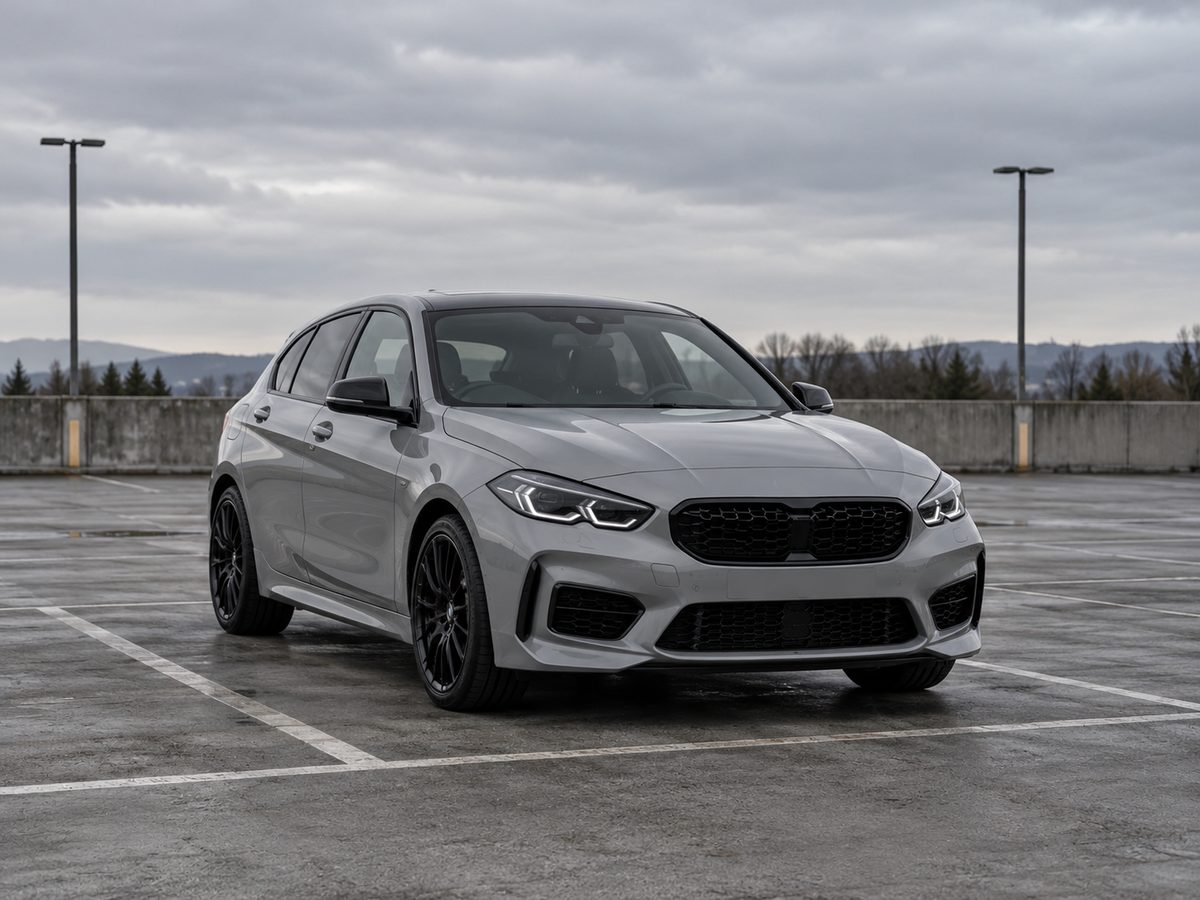
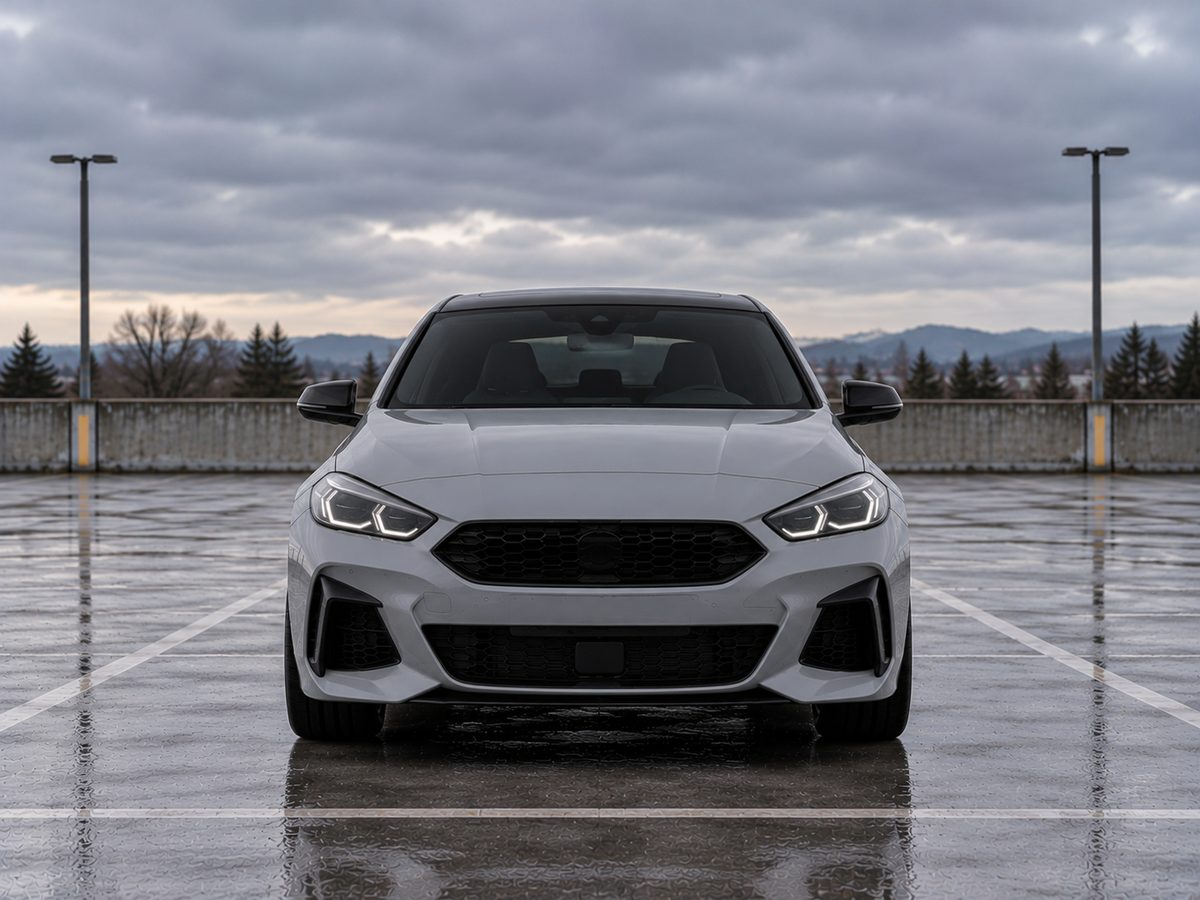
Accueil : miniature 3D tournable, angles du guide qui défilent seuls
- Nouvelle photo « Face avant », bien de face
- Miniature de l'accueil : on peut la faire tourner une fois la photo effacée (sans zoom, pour garder le défilement ; glisser vertical = défilement sur mobile)
- Guide photo : les 8 angles défilent toutes les 3 s tant que le client n'a rien touché, dès que la carte est à l'écran

diff --git a/components/Uploader.tsx b/components/Uploader.tsx
@@ -24,6 +24,7 @@ type Phase = "idle" | "sending" | "done" | "error";
 const DETAILS_STEP = ANGLES.length;
 const CONTACT_STEP = ANGLES.length + 1;
 const MAX_DETAILS = 4;
+const TOUR_MS = 3000;
 
 export default function Uploader() {
   const [step, setStep] = useState(0);
@@ -37,6 +38,10 @@ export default function Uploader() {
   const [storage, setStorage] = useState<boolean | null>(null);
   const [justAdded, setJustAdded] = useState(false);
   const advance = useRef<ReturnType<typeof setTimeout>>(undefined);
+  // Visite guidée : tant que le client n'a rien touché, les angles défilent seuls (au premier clic, ça s'arrête).
+  const [tour, setTour] = useState(true);
+  const [visible, setVisible] = useState(false);
+  const card = useRef<HTMLDivElement>(null);
 
   useEffect(() => {
     fetch("/api/storage")
@@ -45,6 +50,20 @@ export default function Uploader() {
       .catch(() => setStorage(false));
     return () => clearTimeout(advance.current);
   }, []);
+
+  useEffect(() => {
+    const el = card.current;
+    if (!el) return;
+    const io = new IntersectionObserver(([e]) => setVisible(e.isIntersecting), { rootMargin: "-15% 0px" });
+    io.observe(el);
+    return () => io.disconnect();
+  }, []);
+
+  useEffect(() => {
+    if (!tour || !visible) return;
+    const t = setInterval(() => setStep((s) => (s + 1) % ANGLES.length), TOUR_MS);
+    return () => clearInterval(t);
+  }, [tour, visible]);
 
   const previews = useMemo(() => {
     const m: Partial<Record<AngleId, string>> = {};
@@ -147,7 +166,12 @@ export default function Uploader() {
   const angle = step < ANGLES.length ? ANGLES[step] : null;
 
   return (
-    <div className="up-card wizard">
+    <div
+      className="up-card wizard"
+      ref={card}
+      onPointerDown={() => setTour(false)}
+      onKeyDown={() => setTour(false)}
+    >
       <div className="wz-head">
         <span>
           {angle ? `Photo ${step + 1} sur ${ANGLES.length}` : step === DETAILS_STEP ? "Détails" : "Dernière étape"}

diff --git a/components/CarViewer.tsx b/components/CarViewer.tsx
@@ -71,6 +71,7 @@ export default function CarViewer({
   onPartStatus,
   framing = 1,
   interactive = true,
+  zoom = true,
 }: {
   source: ModelSource;
   config: Config;
@@ -84,6 +85,8 @@ export default function CarViewer({
   framing?: number;
   /** false : la voiture tourne seule, sans capter la souris (la page défile normalement). */
   interactive?: boolean;
+  /** false : pas de zoom à la molette ou au pincement, pour laisser la page défiler. */
+  zoom?: boolean;
 }) {
   const host = useRef<HTMLDivElement>(null);
   const rig = useRef<Rig | null>(null);
@@ -123,6 +126,7 @@ export default function CarViewer({
     controls.enableDamping = true;
     controls.enablePan = false;
     controls.enabled = interactive;
+    controls.enableZoom = zoom;
     controls.minDistance = 4;
     controls.maxDistance = 16 * framing;
     controls.minPolarAngle = 0.25;
@@ -292,7 +296,7 @@ export default function CarViewer({
           {failed ? `Le modèle 3D n'a pas pu se charger (${failed}).` : `Chargement du modèle 3D… ${Math.round(progress * 100)} %`}
         </div>
       )}
-      {ready && interactive && !touched && !pick && <p className="viewer-hint">Fais glisser pour tourner · pince ou molette pour zoomer</p>}
+      {ready && interactive && !touched && !pick && <p className="viewer-hint">{zoom ? "Fais glisser pour tourner · pince ou molette pour zoomer" : "Fais-la tourner"}</p>}
     </div>
   );
 }

diff --git a/components/ShelfPreview.tsx b/components/ShelfPreview.tsx
@@ -5,7 +5,7 @@ import CarViewer, { type ModelSource } from "./CarViewer";
 import { ORIGINE, type Config } from "@/lib/options";
 import type { Car } from "@/lib/cars";
 
-/** Miniature d'exemple sur l'accueil : la voiture du catalogue, sur son socle gravé, qui tourne seule. */
+/** Miniature d'exemple sur l'accueil : la voiture du catalogue, sur son socle gravé. Elle tourne seule, et se fait tourner à la souris ou au doigt (sans zoom, pour ne pas bloquer le défilement). */
 export default function ShelfPreview({ car }: { car: Car }) {
   const source = useMemo<ModelSource>(
     () => ({ url: car.glb!, lengthM: car.lengthM, roles: car.roles }),
@@ -27,5 +27,5 @@ export default function ShelfPreview({ car }: { car: Car }) {
     }),
     [car]
   );
-  return <CarViewer source={source} config={config} framing={1.4} interactive={false} />;
+  return <CarViewer source={source} config={config} framing={1.4} zoom={false} />;
 }

diff --git a/app/globals.css b/app/globals.css
@@ -72,6 +72,10 @@ h1 span { color: var(--muted); font-weight: 400; }
 .reveal-mini, .reveal-photo { position: absolute; inset: 12px clamp(12px, 2vw, 20px) 20px; border-radius: 24px; overflow: hidden; }
 .reveal-mini { background: var(--wall); }
 .reveal-mini .viewer { position: absolute; inset: 0 0 24% 0; min-height: 0; pointer-events: none; transform: scale(calc(0.9 + var(--p) * 0.1)); }
+.reveal.live .reveal-mini .viewer { pointer-events: auto; }
+/* Sur mobile, glisser à l'horizontale fait tourner la voiture, à la verticale fait défiler la page. */
+.reveal-mini .viewer canvas { touch-action: pan-y !important; }
+.reveal-mini .viewer-hint { bottom: 4px; }
 .reveal-photo {
   opacity: clamp(0, calc(1.6 - var(--p) * 2.4), 1);
   pointer-events: none;

diff --git a/components/HeroReveal.tsx b/components/HeroReveal.tsx
@@ -22,6 +22,8 @@ export default function HeroReveal({ car, from }: { car: Car; from: number }) {
       const span = r.height - window.innerHeight;
       const p = span > 0 ? Math.min(1, Math.max(0, -r.top / span)) : 0;
       el.style.setProperty("--p", p.toFixed(3));
+      // La miniature ne capte la souris qu'une fois la photo effacée.
+      el.classList.toggle("live", p > 0.85);
     };
     const onScroll = () => {
       if (!frame) frame = requestAnimationFrame(update);
